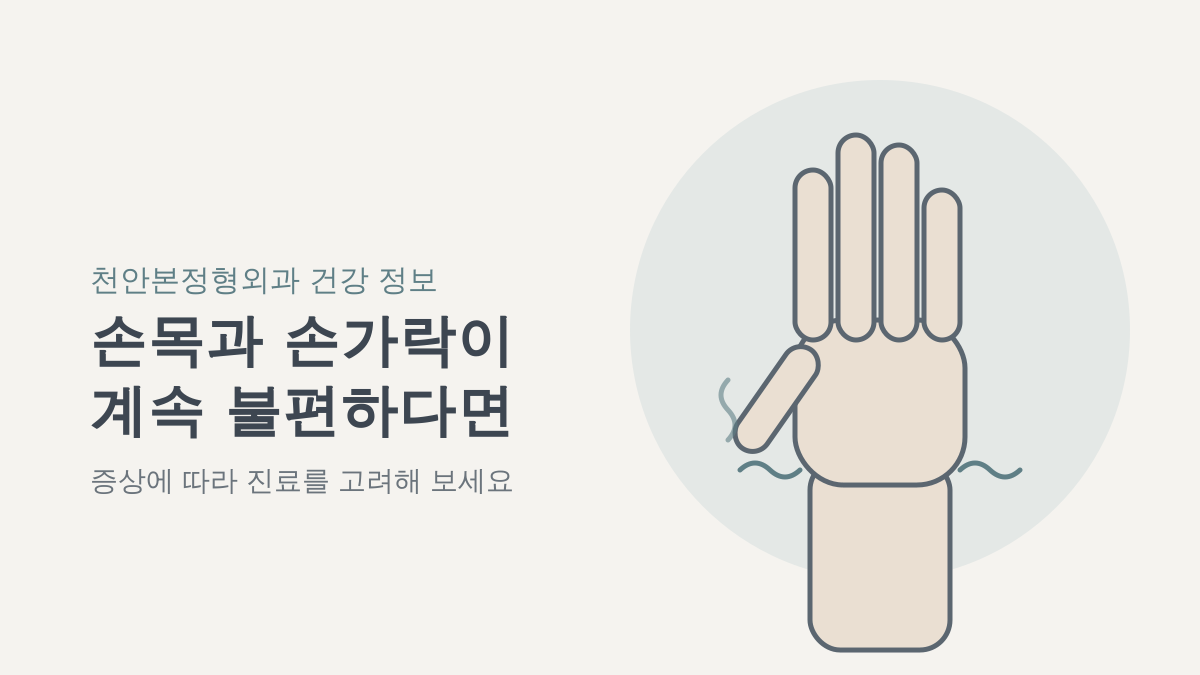
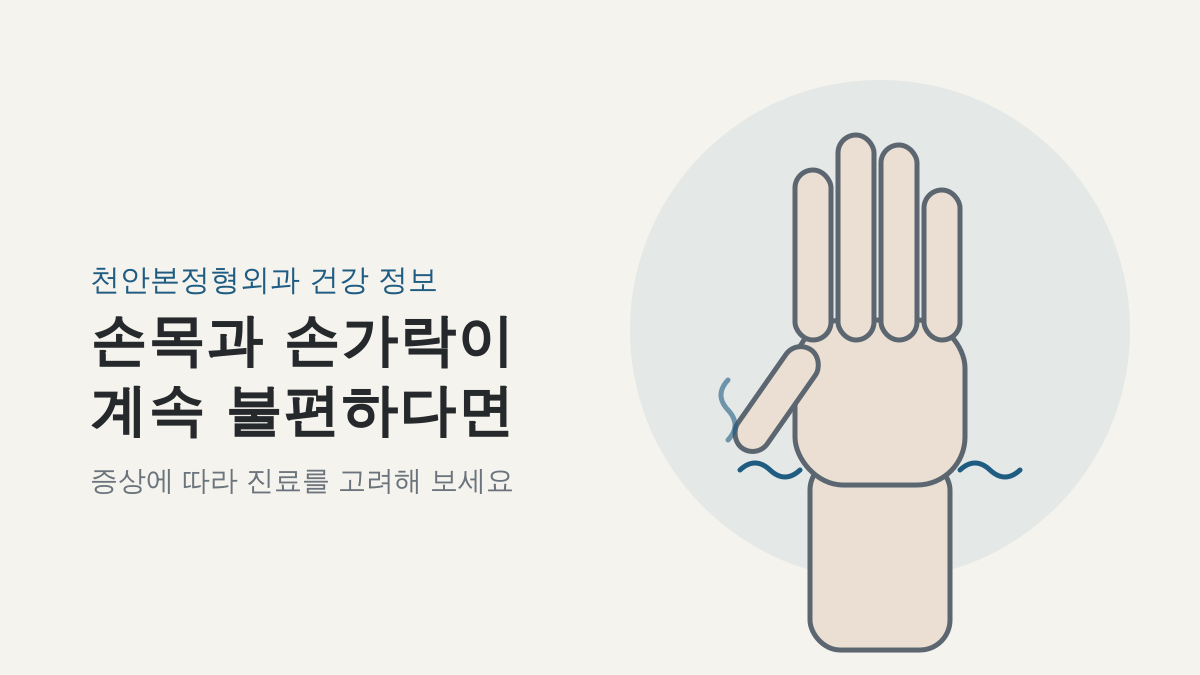
Apply hospital palette to images, add blog preview page, record staff reply
Claude-Session: https://claude.ai/code/session_01NMjDGvHJeUMg3F3nsRL23D

diff --git a/blog/output/kimjang-wrist-hand-pain/preview.html b/blog/output/kimjang-wrist-hand-pain/preview.html
@@ -1,0 +1,32 @@
+<!DOCTYPE html>
+<html lang="ko"><head><meta charset="UTF-8"><meta name="viewport" content="width=device-width,initial-scale=1">
+<title>블로그 미리보기 | 천안본정형외과</title>
+<link rel="stylesheet" href="https://cdn.jsdelivr.net/gh/orioncactus/pretendard@v1.3.9/dist/web/static/pretendard.css">
+<style>
+:root{--navy:#16324a;--blue:#1f5c82;--soft:#5588a8;--cream:#f5f3ee;--line:#e6eaed;--ink:#26292c;--ink2:#54595e;--bg:#fbfaf7}
+*{box-sizing:border-box;margin:0;padding:0}
+body{font-family:Pretendard,-apple-system,"Noto Sans KR",sans-serif;color:var(--ink);background:var(--bg);line-height:1.8;-webkit-font-smoothing:antialiased}
+.banner{background:#fdf1ef;border-bottom:1px solid #f0c3ba;color:#7a2a20;font-size:13px;padding:10px 16px;text-align:center}
+header{background:linear-gradient(160deg,var(--bg),#fff 55%,var(--cream));border-bottom:1px solid #f2ede2;padding:44px 20px 40px}
+.wrap{max-width:720px;margin:0 auto}
+.brand{display:inline-block;font-size:13px;font-weight:700;color:var(--blue);background:#eaf1f6;padding:6px 14px;border-radius:999px;margin-bottom:16px}
+h1{font-size:clamp(26px,5vw,36px);font-weight:800;letter-spacing:-.02em;line-height:1.35;color:var(--navy)}
+article{padding:28px 20px 56px}
+article p{margin:0 0 16px;font-size:16.5px;color:#34383b}
+h2{font-size:22px;font-weight:800;color:var(--navy);margin:40px 0 14px;padding-left:12px;border-left:4px solid var(--soft);line-height:1.4}
+figure{margin:24px 0}figure img{width:100%;height:auto;border-radius:16px;box-shadow:0 12px 32px rgba(22,50,74,.1)}
+table{width:100%;border-collapse:collapse;margin:16px 0 20px;font-size:15px;background:#fff;border-radius:14px;overflow:hidden;box-shadow:0 0 0 1px var(--line)}
+th{background:var(--navy);color:#fff;text-align:left;padding:12px 14px;font-weight:700}
+td{padding:12px 14px;border-top:1px solid var(--line);vertical-align:top;color:var(--ink2)}td:first-child{font-weight:700;color:var(--ink);white-space:nowrap}
+ul,ol{margin:8px 0 18px 4px;padding-left:20px}li{margin:6px 0;font-size:16px;color:#34383b}
+blockquote{margin-top:24px;background:var(--cream);border-radius:14px;padding:16px 18px;font-size:14px;color:var(--ink2)}
+.ph{margin:24px 0;border:2px dashed #b9c7d2;border-radius:16px;padding:34px 16px;text-align:center;color:#6d7d89;background:#f3f6f8}
+.tags{margin-top:28px;display:flex;flex-wrap:wrap;gap:8px}.tags span{font-size:13px;color:var(--blue);background:#eaf1f6;border-radius:999px;padding:5px 12px}
+footer{background:var(--navy);color:#cfdbe5;text-align:center;font-size:13px;padding:28px 16px}
+@media(max-width:560px){td:first-child{white-space:normal}table{font-size:14px}}
+</style></head><body>
+<div class="banner">미리보기 · 병원 담당자 확인 전 초안입니다. 발행 전 확인 목록은 05_review.md 참고</div>
+<header><div class="wrap"><span class="brand">천안본정형외과 건강 정보</span><h1>김장 끝나고 손목과 손가락이 저리다면, 병원에 가야 하는 신호</h1></div></header>
+<article><div class="wrap"><figure><img src="images/01_hero_wrist_hand.png" alt="손목과 손가락 일러스트"></figure><p>김장철이 지나고 나서 손목이 뻐근하거나 손가락이 저린 적이 있으신가요? &quot;그냥 며칠 힘들어서 그런가?&quot; 하고 넘기다가도, 증상이 계속되면 걱정이 되실 수 있어요.</p><p>손목과 손가락의 저림, 통증에는 여러 원인이 있습니다. 이 글은 원인을 하나로 단정하지 않고, 어떤 증상이 있을 때 진료를 고려하면 좋을지 차분히 안내해 드리려고 합니다.</p><h2>손목과 손가락이 저리고 아플 때 생각해 볼 수 있는 상태</h2><p>손을 많이 쓴 뒤 불편을 느끼는 경우, 일반적으로 아래와 같은 상태가 알려져 있습니다. 다만 증상만으로 스스로 구분하기는 어렵습니다.</p><table><thead><tr><th>상태</th><th>알려진 특징</th></tr></thead><tbody><tr><td>손목터널증후군(수근관증후군)</td><td>손목에서 정중신경이 눌려 생기며, 엄지부터 넷째 손가락 쪽의 저림이 특징입니다. 새끼손가락에는 보통 증상이 없다고 알려져 있습니다.</td></tr><tr><td>방아쇠수지</td><td>손가락을 굽히는 힘줄과 그 통로에 염증이 생겨, 손가락을 펼 때 걸리거나 딸깍거리는 느낌이 나타날 수 있습니다. 아침에 뻣뻣하다가 시간이 지나 풀리기도 합니다.</td></tr><tr><td>드퀘르뱅병(손목 건초염)</td><td>엄지 쪽 손목의 힘줄이 붓고 아픈 상태로, 물건을 쥐거나 손목을 돌릴 때 심해질 수 있습니다.</td></tr></tbody></table><p>특정 작업이 이 질환들의 원인이라고 확정할 수 있는 것은 아니며, 정확한 원인은 개인마다 다를 수 있습니다.</p><h2>이런 증상이 있다면 병원 방문을 고려해 보세요</h2><p>아래 항목은 진료 상담을 고려할 때 참고하실 수 있는 예시이며, 이 목록만으로 진단할 수는 없습니다.</p><ul><li>밤에 손이 저려서 자다가 깬다</li><li>엄지 아래 두툼한 부분이 납작해진 것 같거나, 물건을 쥘 힘이 약해졌다</li><li>손가락이 걸리거나 딸깍거리고, 구부러진 채 잘 펴지지 않는다</li><li>엄지 쪽 손목이 아프고, 쥐거나 손목을 돌릴 때 더 심해진다</li><li>쉬어도 증상이 계속되거나 반복된다</li><li>당뇨, 갑상선 질환, 류마티스관절염이 있는데 손 증상이 생겼다</li></ul><p>증상이 갑자기 심해지거나 걱정되신다면, 진료 상담을 받아 보세요.</p><figure><img src="images/03_visit_signal_checklist.png" alt="병원 방문을 고려할 신호 6가지 체크리스트 카드"></figure><h2>병원에서는 어떻게 확인하나요</h2><p>위 신호에 해당해 병원을 찾으시면, 보통 아래와 같은 과정으로 살펴봅니다. 정형외과에서 상담받으실 수 있으며, 손 질환(수부) 진료 가능 여부는 병원마다 다를 수 있습니다.</p><ul><li>문진: 언제부터, 어느 손가락이, 밤에도 불편한지 등을 여쭙니다.</li><li>신체검진: 손목과 손가락을 눌러 보거나 특정 자세를 취해 보며 상태를 확인합니다. 손목터널증후군에서는 팔렌 검사와 틴넬 징후, 드퀘르뱅병에서는 핀켈슈타인 검사 같은 방법이 알려져 있습니다.</li><li>추가 검사: 필요하다고 판단되면 초음파나 신경전도검사 등을 고려할 수 있으며, 검사 종류는 병원마다 다를 수 있습니다.</li></ul><p>손목터널증후군은 검사 결과가 정상일 수 있어, 한 가지 검사보다 여러 소견을 종합해 판단한다고 알려져 있습니다.</p><p>진료 때 아래 내용을 정리해 가시면 도움이 됩니다.</p><ul><li>증상이 시작된 시기와 불편한 손가락</li><li>밤에 증상이 심해지는지 여부</li><li>복용 중인 약과 당뇨 등 기저질환</li></ul><h2>치료는 어떤 순서로 고려하나요</h2><p>치료는 증상과 검사 결과에 따라 달라집니다. 일반적으로는 아래 순서로 고려하는 것으로 알려져 있습니다.</p><ol><li>휴식과 손 사용 조절</li><li>보조기(부목) 사용, 소염진통제 등 약물</li><li>필요한 경우 주사 치료</li><li>보존적 치료로 호전이 없거나 진행된 경우 수술</li></ol><p>주사 치료는 선택지 중 하나이며, 효과의 지속 정도가 개인과 상태에 따라 다를 수 있습니다. 약물과 주사를 포함한 모든 치료에는 이점과 위험이 함께 있어, 개인의 상태에 맞는지는 의료진과 충분히 상의해서 결정하세요.</p><h2>진료 전 일상에서 유의할 점</h2><p>증상이 있는 동안에는 불편을 키우는 것 같은 동작을 잠시 줄이고, 손과 손목을 무리해서 쓰지 않도록 해 주세요. 증상이 이어진다면 혼자 참기보다 진료를 받아 보시길 권합니다.</p><h2>천안에서 진료를 알아보신다면</h2><p>천안에서 손목 통증으로 진료를 알아보고 계신다면 천안본정형외과에 문의하실 수 있습니다. 부담 갖지 마시고, 위에 적은 증상이 해당되는지 편하게 상담해 보세요.</p><div class="ph">병원 제공 사진 자리 (외관 또는 상담 공간)<br><small>제공·사용 허락·초상권 확인 전에는 비워 두고 발행</small></div><p>정확한 진단은 진료를 통해 가능합니다. 증상이 지속되면 전문의 상담을 받으세요.</p><blockquote>이 글은 일반적인 건강 정보 제공이 목적이며 개인의 진단과 치료를 대신하지 않습니다. 증상과 치료 방법은 개인별로 다를 수 있습니다.</blockquote><div class="tags"><span>#김장 후 손목 통증</span><span>#손목 저림</span><span>#손가락 저림</span><span>#손목터널증후군</span><span>#수근관증후군</span><span>#방아쇠수지</span><span>#드퀘르뱅병</span><span>#손목 건초염</span><span>#천안 정형외과</span><span>#천안본정형외과</span></div></div></article>
+<footer>천안본정형외과 · 일반적인 건강 정보 제공 목적의 글입니다</footer>
+</body></html>

diff --git a/blog/output/kimjang-wrist-hand-pain/05_review.md b/blog/output/kimjang-wrist-hand-pain/05_review.md
@@ -229,3 +229,8 @@ AI 검수 범위(표현, 의료광고 사전점검, 개인정보, 품질, 일관
 10. 해부 일러스트는 제외 상태. 추후 사용 시 전문가 제작과 의료인 검수 필요
 
 현재 발행된 글은 없습니다. 이 승인은 AI 사전검수 통과일 뿐 발행 완료가 아닙니다.
+
+## 담당자 회신 (2026-10-12)
+- 출처 게시일·원문 대조: 담당자가 직접 처리하기로 함. (AI는 계속 '미대조' 상태로 표기)
+- 병원 홈페이지 디자인 반영: 직원 제공 HTML에서 색상·서체 추출 후 이미지 01, 03과 preview.html에 적용.
+- 제공된 수술 장면 사진(모자이크 일부 처리, 의료진 마스크 착용)은 이미지팀 기준(시술 장면·식별 가능 인물 금지)과 본문 주제(진료 신호 안내)에 맞지 않아 사용하지 않음. 병원 외관/상담 공간 사진이 필요함.

diff --git a/blog/config/style.md b/blog/config/style.md
@@ -3,3 +3,8 @@
 - 색상: 병원 대표색 (확정 시 여기에 기입)
 - 병원명 표기: 천안본정형외과
 - 마무리 문구: 정확한 진단은 진료를 통해 가능합니다. 증상이 지속되면 전문의 상담을 받으세요.
+
+## 병원 홈페이지 콘텐츠 기준 디자인 (직원 제공 HTML 3종에서 추출, 2026-10-12)
+- 색상: 네이비 #16324a / 블루 #1f5c82 / 소프트블루 #5588a8 / 크림 #f5f3ee / 배경 #fbfaf7 / 본문 #26292c
+- 서체: Pretendard
+- 홈페이지 URL은 이 환경에서 확인하지 못함 (검색 불가, 외부 접속 차단). URL을 받으면 반영.
